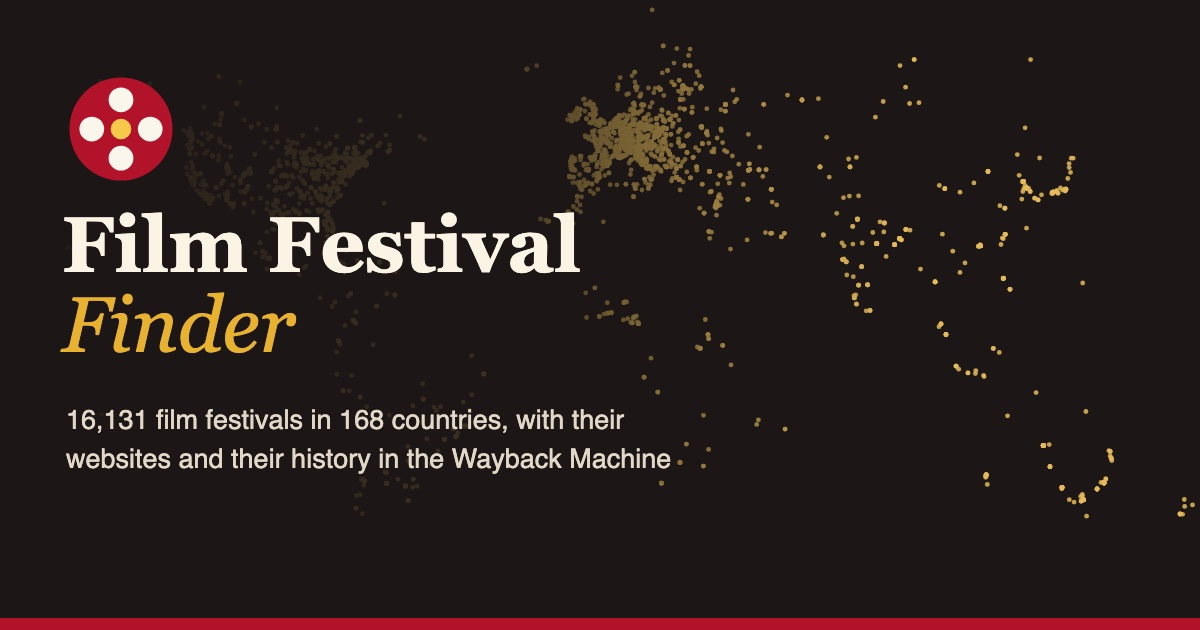
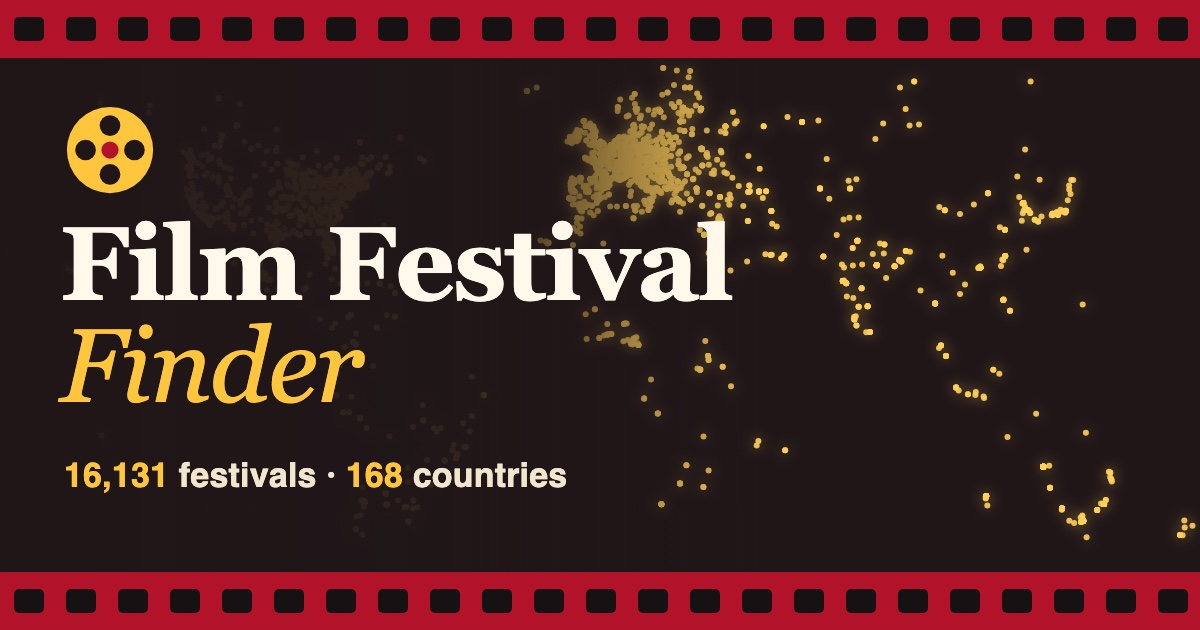
Tile cover: film-strip edges, brighter world map, larger type

diff --git a/cover/make.py b/cover/make.py
@@ -1,4 +1,5 @@
-"""Render cover/cover.html (festivals as dots on a world grid) and screenshot it to cover/film-festivals-cover.jpg (1200x630).
+"""Render cover/cover.html (festivals as glowing dots on a world map, between film-strip edges) and screenshot it
+to cover/film-festivals-cover.jpg (1200x630, like the other tiles; the landing card shows it ~300 px wide).
 
     python3 cover/make.py
 """
@@ -10,27 +11,47 @@ here = Path(__file__).parent
 rows = json.loads((here.parent / "public" / "data.json").read_text())["rows"]
 pts = [(r[11], r[12]) for r in rows if r[11] is not None]
 W, H = 1200, 630
-dots = "".join(f'<circle cx="{(lon + 180) / 360 * W:.1f}" cy="{(90 - lat) / 180 * 760 - 40:.1f}" r="2.4"/>' for lat, lon in pts)
+STRIP = 58                      # film-strip band height, top and bottom
+# Equirectangular, cropped to latitudes 72N..-50S so the land fills the frame.
+LAT0, LAT1 = 72, -50
+mh = H - 2 * STRIP
+
+
+def xy(lat, lon):
+    return (lon + 180) / 360 * W, STRIP + (LAT0 - lat) / (LAT0 - LAT1) * mh
+
+
+dots = "".join('<circle cx="%.1f" cy="%.1f" r="3"/>' % xy(lat, lon) for lat, lon in pts if LAT1 < lat < LAT0)
+holes = "".join(f'<rect x="{x}" y="17" width="30" height="24" rx="5"/><rect x="{x}" y="{H - 41}" width="30" height="24" rx="5"/>'
+                for x in range(14, W, 52))
 n, countries = len(rows), len({r[3] for r in rows if r[3]})
 html = f"""<!doctype html><meta charset=utf-8><style>
-html,body{{margin:0;width:{W}px;height:{H}px;overflow:hidden;background:#1c1716;font-family:Georgia,serif}}
-svg.dots{{position:absolute;inset:0}} .dots circle{{fill:#f0c35a;opacity:.85}}
-.veil{{position:absolute;inset:0;background:linear-gradient(90deg,rgba(28,23,22,.97) 0,rgba(28,23,22,.85) 40%,rgba(28,23,22,.05) 75%)}}
-.reel{{position:absolute;left:66px;top:74px;width:110px;height:110px}}
-h1{{position:absolute;left:62px;top:205px;margin:0;color:#fbf3e4;font:700 78px/1.02 Georgia,serif}}
-h1 em{{color:#e8b230;font-weight:400}}
-p{{position:absolute;left:66px;top:400px;margin:0;color:#e2d8c8;font:27px/1.45 -apple-system,Helvetica,sans-serif;width:640px}}
-.bar{{position:absolute;left:0;right:0;bottom:0;height:12px;background:#b3122b}}
-</style><svg class=dots viewBox="0 0 {W} {H}">{dots}</svg><div class=veil></div>
-<svg class=reel viewBox="0 0 32 32"><circle cx="16" cy="16" r="15" fill="#b3122b"/><circle cx="16" cy="16" r="3" fill="#f6c94a"/><g fill="#fbf6ec"><circle cx="16" cy="7.5" r="3.6"/><circle cx="16" cy="24.5" r="3.6"/><circle cx="7.5" cy="16" r="3.6"/><circle cx="24.5" cy="16" r="3.6"/></g></svg>
+html,body{{margin:0;width:{W}px;height:{H}px;overflow:hidden;background:#161112;font-family:Georgia,serif}}
+svg{{position:absolute;inset:0}}
+.dots circle{{fill:#ffcf5a;opacity:.9}}
+.glow{{filter:blur(7px);opacity:.55}}
+.veil{{position:absolute;left:0;top:{STRIP}px;bottom:{STRIP}px;width:760px;
+  background:linear-gradient(90deg,rgba(32,22,24,.97) 0,rgba(32,22,24,.92) 62%,rgba(32,22,24,0) 100%)}}
+.film rect.h{{fill:#161112}}
+.reel{{position:absolute;left:64px;top:104px;width:92px;height:92px}}
+h1{{position:absolute;left:60px;top:214px;margin:0;color:#fff8ea;font:700 104px/.98 Georgia,serif;letter-spacing:-1.5px}}
+h1 em{{color:#ffc53d;font-weight:400}}
+p{{position:absolute;left:64px;top:456px;margin:0;color:#f3e6cf;font:600 34px/1.2 -apple-system,Helvetica,sans-serif;letter-spacing:.2px}}
+p b{{color:#ffc53d}}
+</style>
+<svg viewBox="0 0 {W} {H}"><rect width="{W}" height="{H}" fill="#201618"/>
+<g class="dots glow">{dots}</g><g class="dots">{dots}</g></svg>
+<div class=veil></div>
+<svg viewBox="0 0 {W} {H}" class="film"><rect width="{W}" height="{STRIP}" fill="#b3122b"/><rect y="{H - STRIP}" width="{W}" height="{STRIP}" fill="#b3122b"/>{holes.replace('<rect ', '<rect class="h" ')}</svg>
+<svg class=reel viewBox="0 0 32 32"><circle cx="16" cy="16" r="15" fill="#ffc53d"/><circle cx="16" cy="16" r="3" fill="#b3122b"/><g fill="#201618"><circle cx="16" cy="7.5" r="3.6"/><circle cx="16" cy="24.5" r="3.6"/><circle cx="7.5" cy="16" r="3.6"/><circle cx="24.5" cy="16" r="3.6"/></g></svg>
 <h1>Film Festival<br><em>Finder</em></h1>
-<p>{n:,} film festivals in {countries} countries, with their websites and their history in the Wayback Machine</p><div class=bar></div>"""
+<p><b>{n:,}</b> festivals · <b>{countries}</b> countries</p>"""
 (here / "cover.html").write_text(html)
 chrome = "/Applications/Google Chrome.app/Contents/MacOS/Google Chrome"
 png = here / "cover.png"
 subprocess.run([chrome, "--headless=new", "--disable-gpu", "--hide-scrollbars", f"--window-size={W},{H}",
                 f"--screenshot={png}", f"file://{(here / 'cover.html').resolve()}"], check=True, capture_output=True)
-subprocess.run(["sips", "-s", "format", "jpeg", "-s", "formatOptions", "85", str(png), "--out",
+subprocess.run(["sips", "-s", "format", "jpeg", "-s", "formatOptions", "88", str(png), "--out",
                 str(here / "film-festivals-cover.jpg")], check=True, capture_output=True)
 png.unlink()
 print("wrote", here / "film-festivals-cover.jpg")
